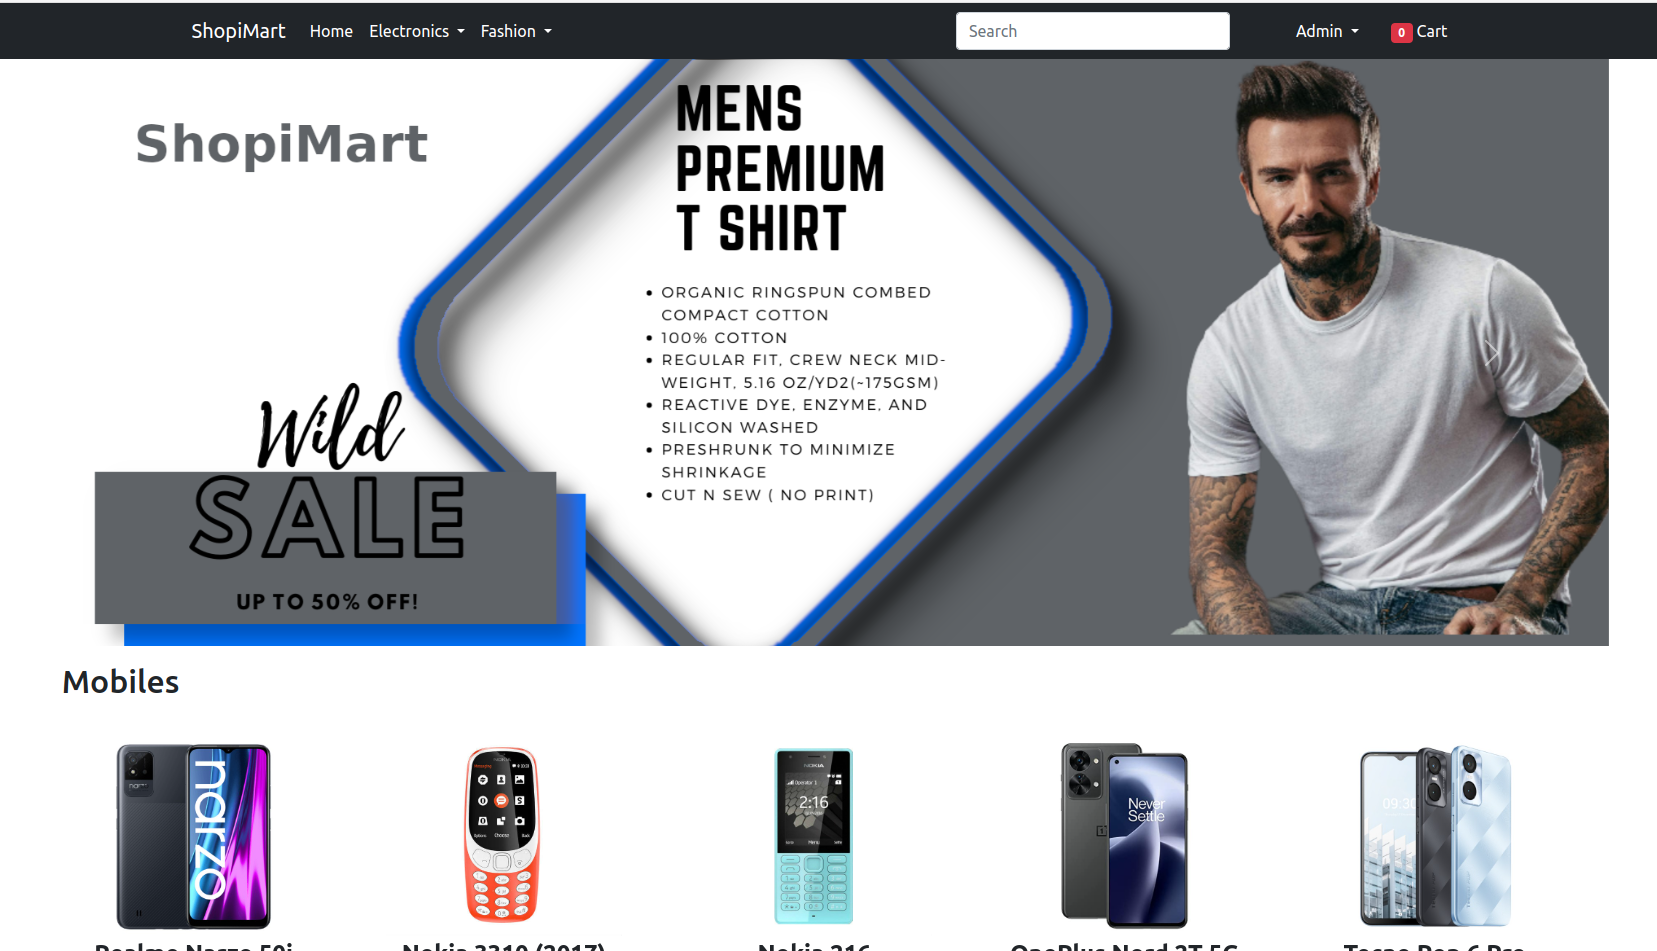
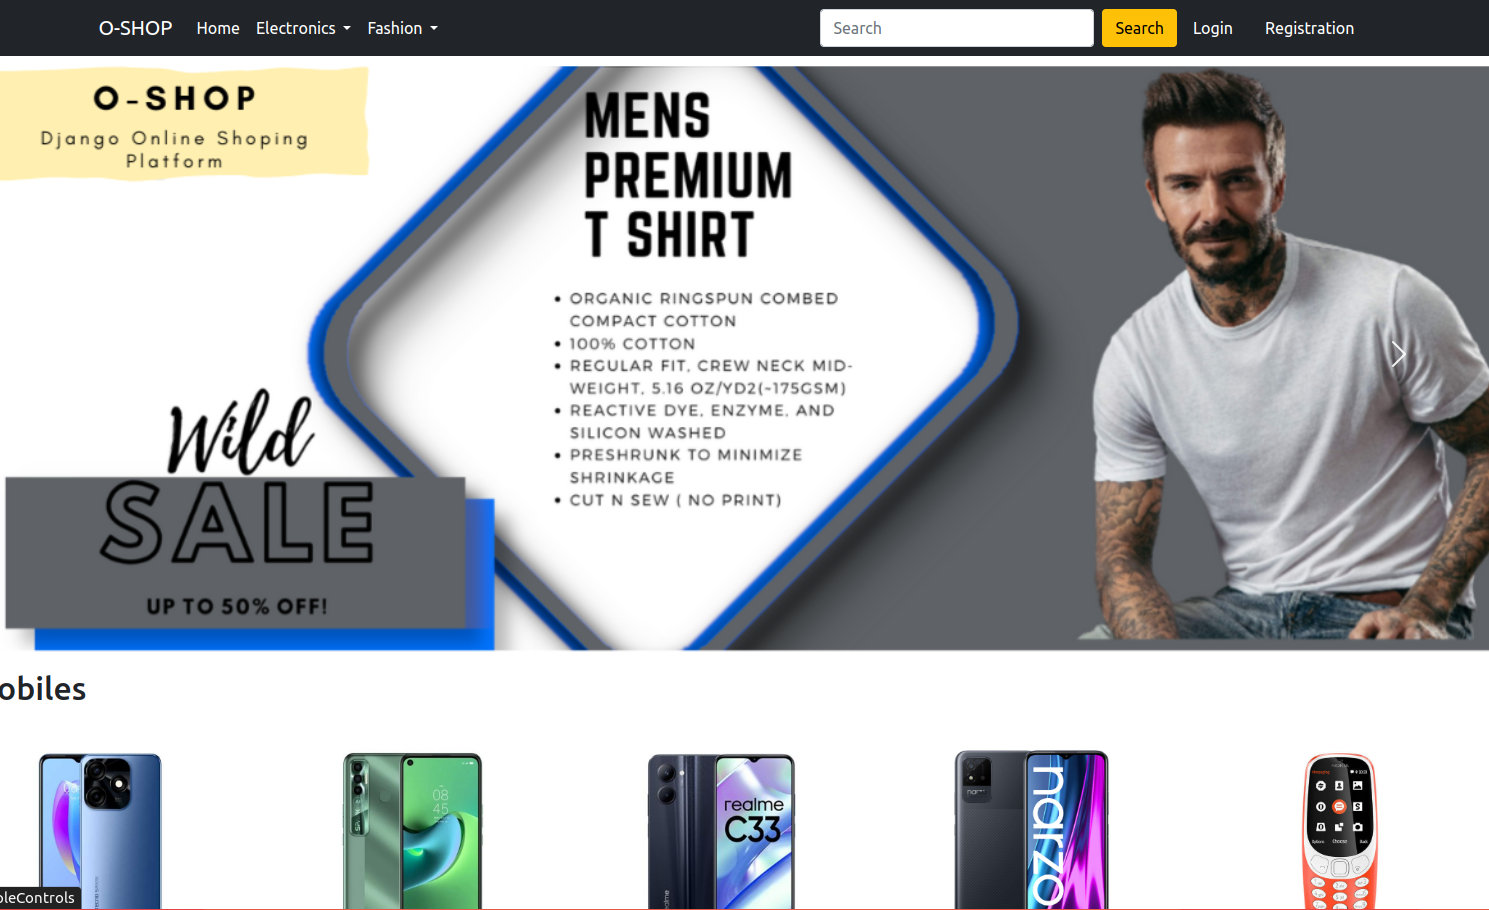
update project name

diff --git a/README.md b/README.md
@@ -1,5 +1,5 @@
 
-# ShopiMart
+# OShop
 This project is a simple e-commerce website built using the Django framework. It allows users to browse products, add them to their cart, and check out their orders. 
 ## Features
 
@@ -25,12 +25,10 @@ This project is a simple e-commerce website built using the Django framework. It
 
 To install the project follow these steps:
 
-1. Clone demo branch
+1.
 
  ```bash
-git clone -b demo https://github.com/rifatjamil54/ShopiMart--django-e-commerce-project.git
-```
-```bash
+git clone https://github.com/rifatjamil54/ShopiMart--django-e-commerce-project.git
 cd ShopiMart--django-e-commerce-project
 virtualenv venv
 ```
@@ -52,7 +50,7 @@ for Windows
 3.
 ```bash
 pip install -r requirements.txt
-cd ShopiMart/
+cd OShop/
 python manage.py runserver
 
 ```
